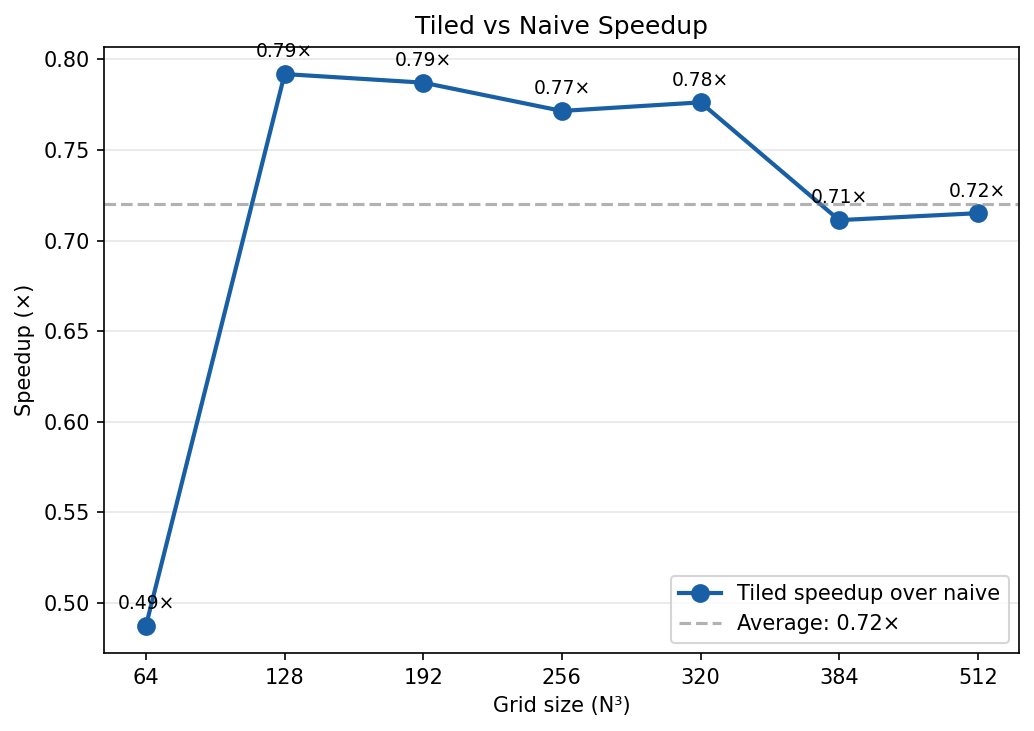
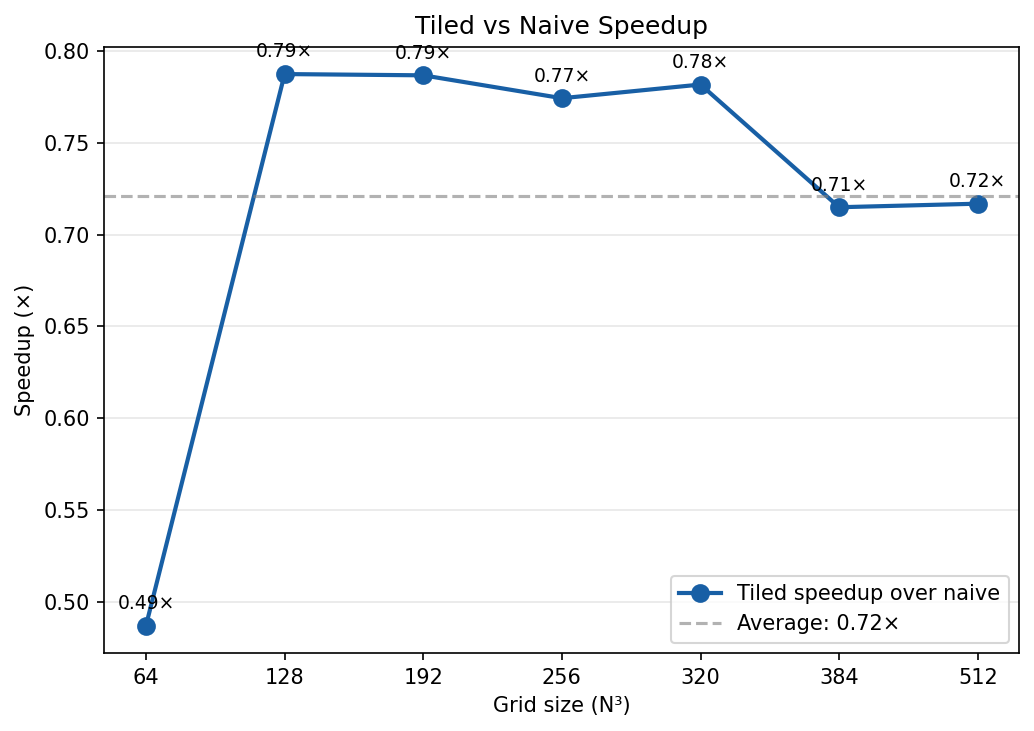
docs: re-measure 5B/6B/6C at 8/12, native-arch tip, regenerate benchmarks

diff --git a/BUILD_AND_RUN.md b/BUILD_AND_RUN.md
@@ -412,19 +412,19 @@ Z pencil depth : 12
 
 Grid        Naive ms   BW (GB/s)    Tiled ms   BW (GB/s)   Speedup
 --------  ----------  ----------  ----------  ----------  --------
-512         11.513 ms    1245.5       15.975 ms     897.6       0.72×
+512         11.495 ms    1247.4       15.913 ms     901.1       0.72×
 
 ── Naive ────────────────────────────────────────────────
 
-Kernel                         ms/step        GB/s       GFLOP/s   Speedup
---------------------------  ----------  ----------  ------------  --------
-  naive                       11.513 ms    1245.5          622.7      1.00×
+Kernel                          Grid     ms/step        GB/s       GFLOP/s
+--------------------------  --------  ----------  ----------  ------------
+  naive                        512³    11.495 ms    1247.4          623.7
 
 ── Tiled ────────────────────────────────────────────────
 
-Kernel                         ms/step        GB/s       GFLOP/s   Speedup
---------------------------  ----------  ----------  ------------  --------
-  tiled                       15.975 ms     897.6          448.8      1.00×
+Kernel                          Grid     ms/step        GB/s       GFLOP/s
+--------------------------  --------  ----------  ----------  ------------
+  tiled                        512³    15.913 ms     901.1          450.5
 ```
 
 **Tiled is slower than naive on this GPU — at this configuration
@@ -516,13 +516,15 @@ Steps  : 200  Warmup: 20
 
 Grid        Naive ms  Naive GB/s    Tiled ms  Tiled GB/s   Speedup
 --------  ----------  ----------  ----------  ----------  --------
-64           0.009 ms    2100.4        0.019 ms    1024.2       0.49×
-128          0.158 ms    1226.9        0.199 ms     971.5       0.79×
-192          0.582 ms    1198.8        0.739 ms     943.6       0.79×
-256          1.399 ms    1221.3        1.813 ms     942.3       0.77×
-320          2.756 ms    1234.4        3.550 ms     958.2       0.78×
-384          4.796 ms    1241.3        6.743 ms     882.9       0.71×
-512         11.472 ms    1249.9       16.043 ms     893.8       0.72×
+64           0.009 ms    2101.5        0.019 ms    1024.0       0.49×
+128          0.157 ms    1230.3        0.200 ms     968.7       0.79×
+192          0.582 ms    1199.1        0.740 ms     943.3       0.79×
+256          1.399 ms    1221.1        1.807 ms     945.4       0.77×
+320          2.758 ms    1233.4        3.528 ms     964.0       0.78×
+384          4.801 ms    1240.0        6.717 ms     886.4       0.71×
+512         11.463 ms    1250.8       15.992 ms     896.6       0.72×
+
+(The per-size "Summary" / "Tiled" tables printed below this one are omitted here.)
 
 Results written to: results/bench_tiled.json
 Results written to: results/bench_tiled_naive.json
@@ -557,14 +559,13 @@ Radius    : 4  (8-th order)
 
 Grid         ms/step        GB/s     BW Eff.
 --------  ----------  ----------  ----------
-64           0.019 ms    1021.7        532.1%
-96           0.056 ms    1371.3        714.1%
-128          0.193 ms    1004.4        523.1%
-192          0.738 ms     945.4        492.3%
-256          1.818 ms     939.9        489.5%
-384          6.737 ms     883.7        460.2%
-512         16.033 ms     894.3        465.7%
-
+64           0.019 ms    1022.2        532.4%
+96           0.058 ms    1323.4        689.2%
+128          0.193 ms    1000.2        520.9%
+192          0.732 ms     953.7        496.7%
+256          1.804 ms     947.1        493.2%
+384          6.702 ms     888.4        462.6%
+512         16.011 ms     895.6        466.4%
 Scaling results written to: results/bench_scaling.json
 ```
 
@@ -621,7 +622,7 @@ number — e.g. "1.56×" — over a table where every row showed tiled
 slower) is **fixed** as of this repo's current `plot_results.py`. The
 per-row table and the "Average speedup" line at the bottom of
 `docs/BENCHMARKS.md` now agree: given the 6B data above, both describe
-tiled as roughly 0.59× of naive on average. If you ever see them
+tiled as roughly 0.72× of naive on average. If you ever see them
 disagree again, check that `write_markdown_report()` reads
 `speedups.append(n_r["time_ms"] / t_r["time_ms"])`, not the reciprocal.
 
@@ -1157,3 +1158,8 @@ reference hardware):**
     `--warmup >= 100` steady-state advice to Section 5A. The 5B/6B/6C
     output blocks are still the 4/8 captures and are labelled as such
     pending a re-run at 8/12. Section 7 already used `--peak-bw 192`.
+
+**Follow-up (L5 batch):**
+
+25. **5B/6B/6C output blocks re-measured at `TILE_Y=8, PENCIL_Z=12`.** Tiled is
+    0.49–0.79× of naive across sizes (0.72× at 512³). Added 6D (`bench_stream`).

diff --git a/docs/BENCHMARKS.md b/docs/BENCHMARKS.md
@@ -8,13 +8,13 @@
 
 | Grid | Naive BW (GB/s) | Tiled BW (GB/s) | Speedup |
 |------|----------------|----------------|---------|
-| 64³ | 2100.4 | 1024.2 | **0.49×** |
-| 128³ | 1226.9 | 971.5 | **0.79×** |
-| 192³ | 1198.8 | 943.6 | **0.79×** |
-| 256³ | 1221.3 | 942.3 | **0.77×** |
-| 320³ | 1234.4 | 958.2 | **0.78×** |
-| 384³ | 1241.2 | 882.9 | **0.71×** |
-| 512³ | 1249.9 | 893.8 | **0.72×** |
+| 64³ | 2101.5 | 1024.0 | **0.49×** |
+| 128³ | 1230.3 | 968.7 | **0.79×** |
+| 192³ | 1199.1 | 943.3 | **0.79×** |
+| 256³ | 1221.1 | 945.4 | **0.77×** |
+| 320³ | 1233.4 | 964.0 | **0.78×** |
+| 384³ | 1240.0 | 886.4 | **0.71×** |
+| 512³ | 1250.8 | 896.6 | **0.72×** |
 
 **Average speedup: 0.72×**
 

diff --git a/README.md b/README.md
@@ -234,7 +234,7 @@ MPI_Sendrecv (multi-node, host-staged or CUDA-aware).
 | `STENCIL_CPU_FALLBACK` | `OFF` | OpenMP fallback (no GPU needed) |
 | `STENCIL_FP64` | `OFF` | Double precision (default: fp32) |
 | `STENCIL_ENABLE_COVERAGE` | `OFF` | gcov/lcov coverage |
-| `CMAKE_CUDA_ARCHITECTURES` | `70;75;80;86;90` | Target SM arches |
+| `CMAKE_CUDA_ARCHITECTURES` | `70;75;80;86;90` | Target SM arches. For a single local GPU, `-DCMAKE_CUDA_ARCHITECTURES=native` (CMake ≥ 3.24) builds only for it and is much faster |
 
 ---
 
